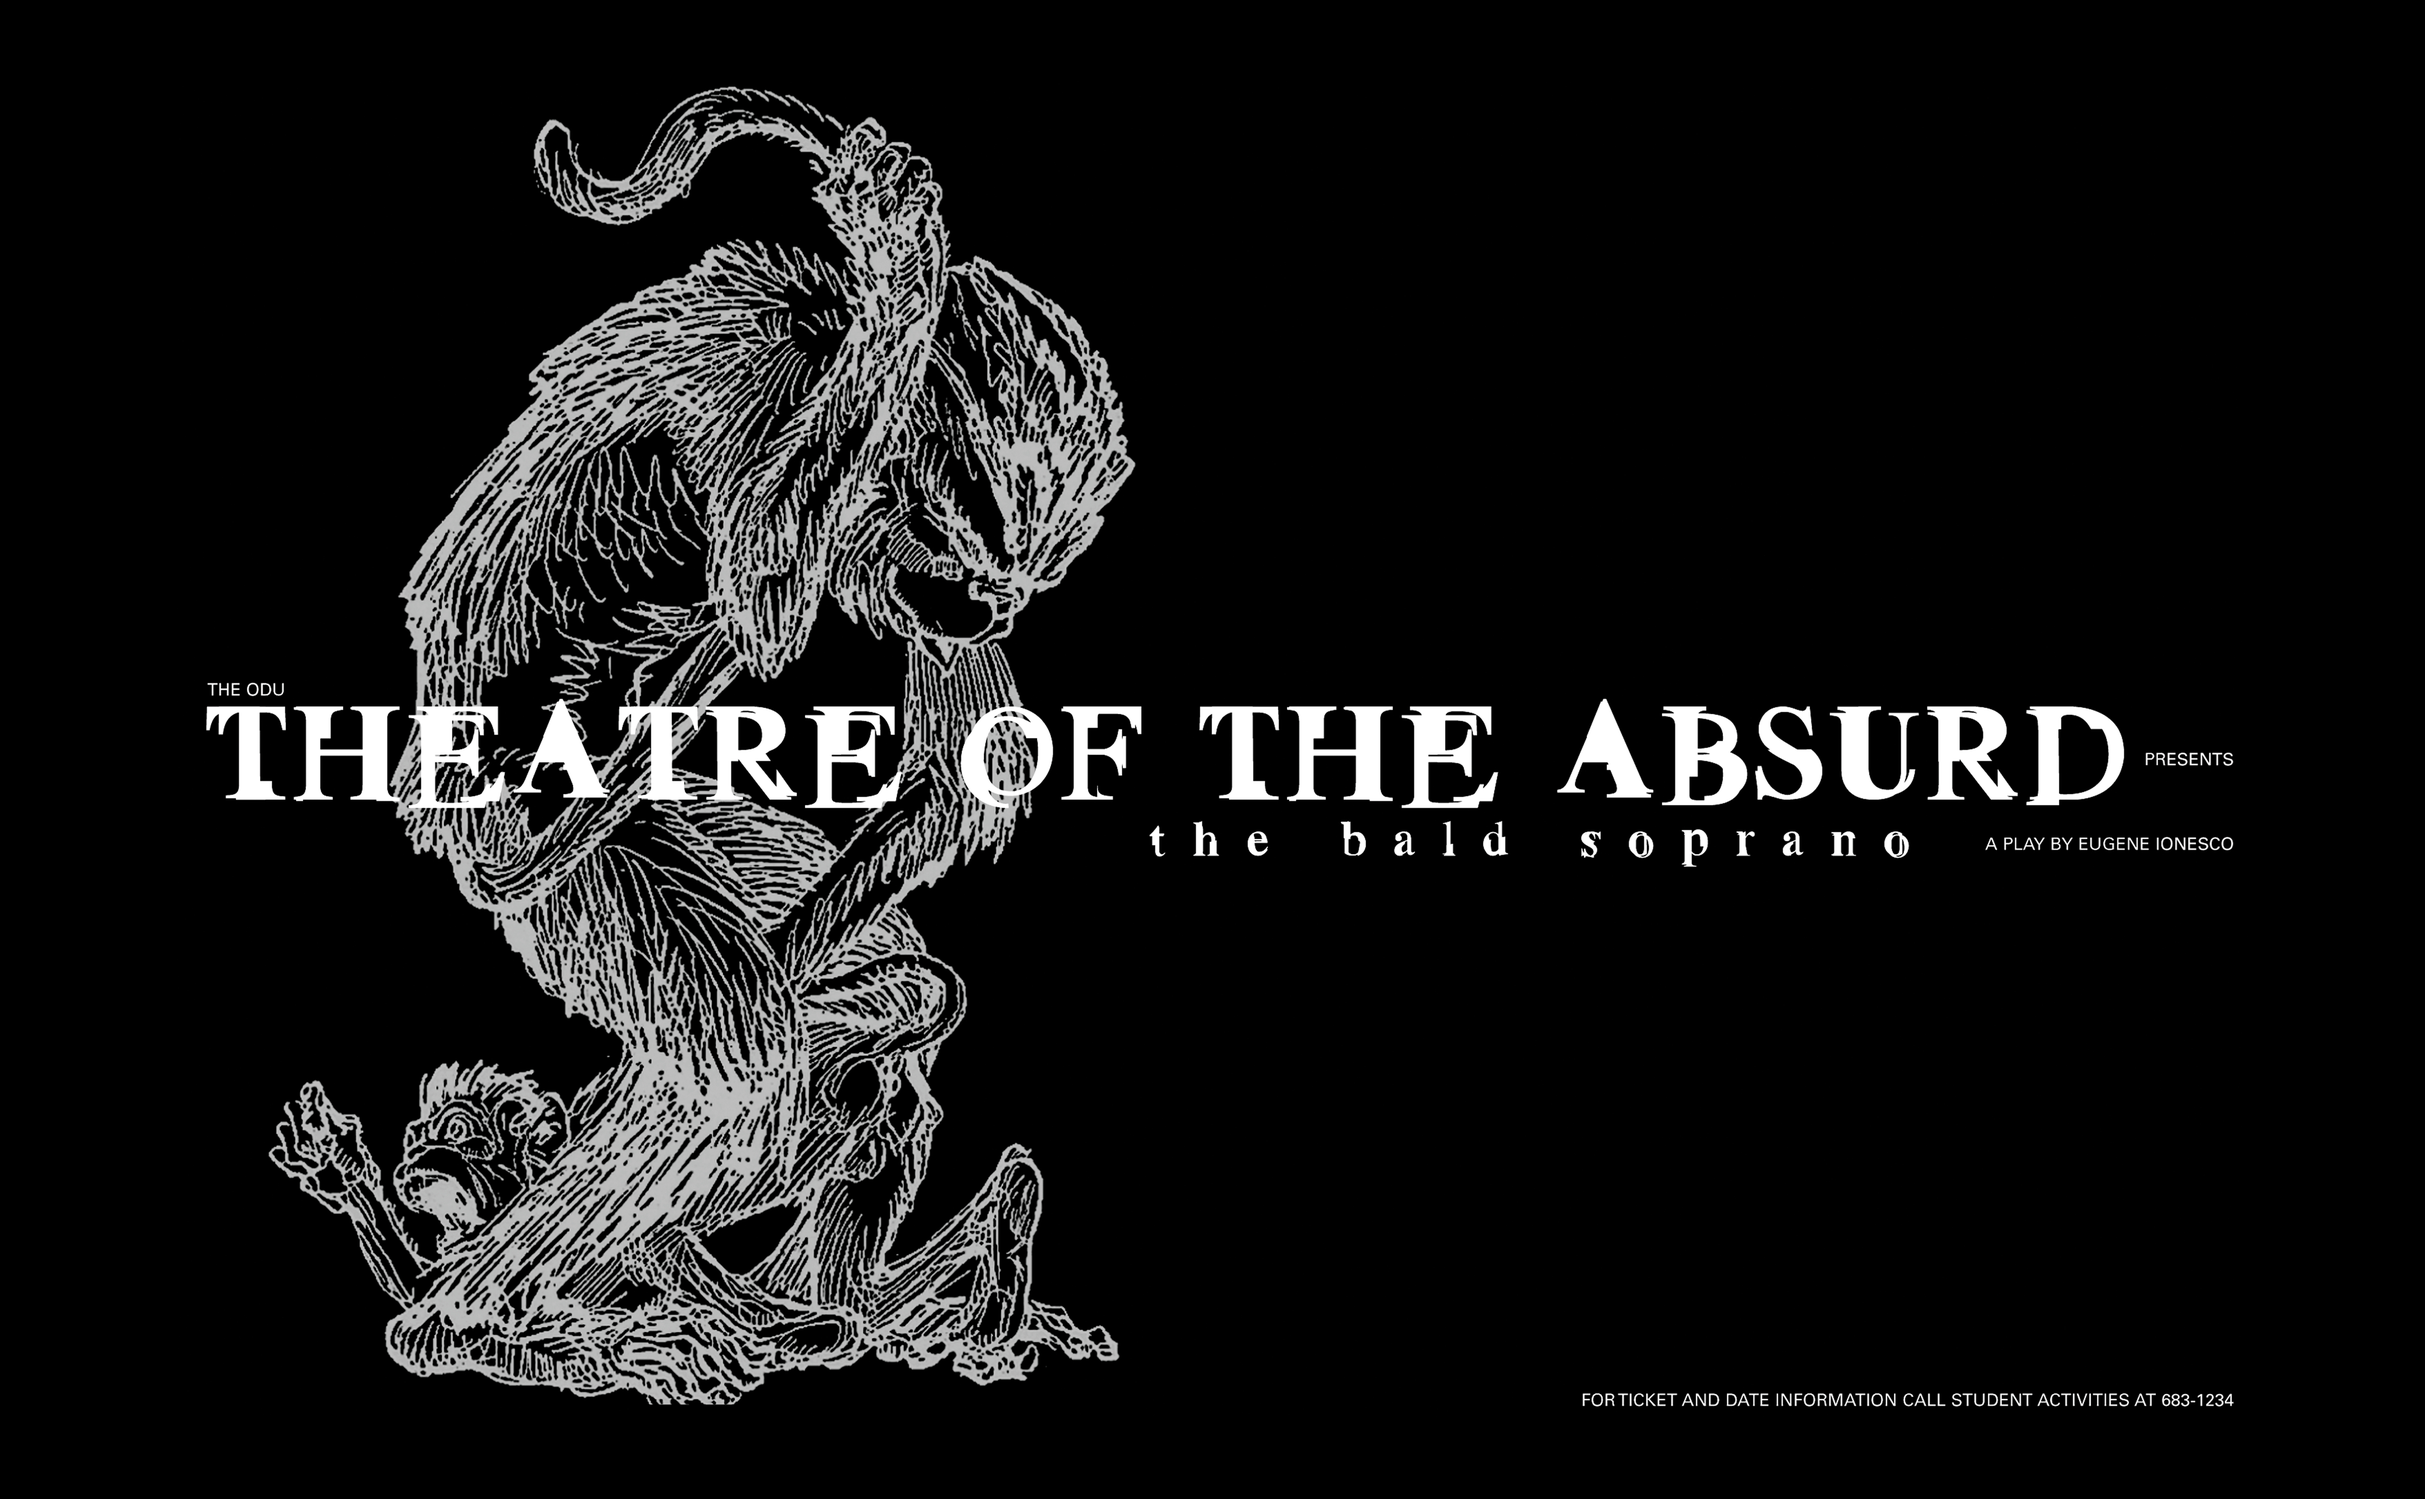
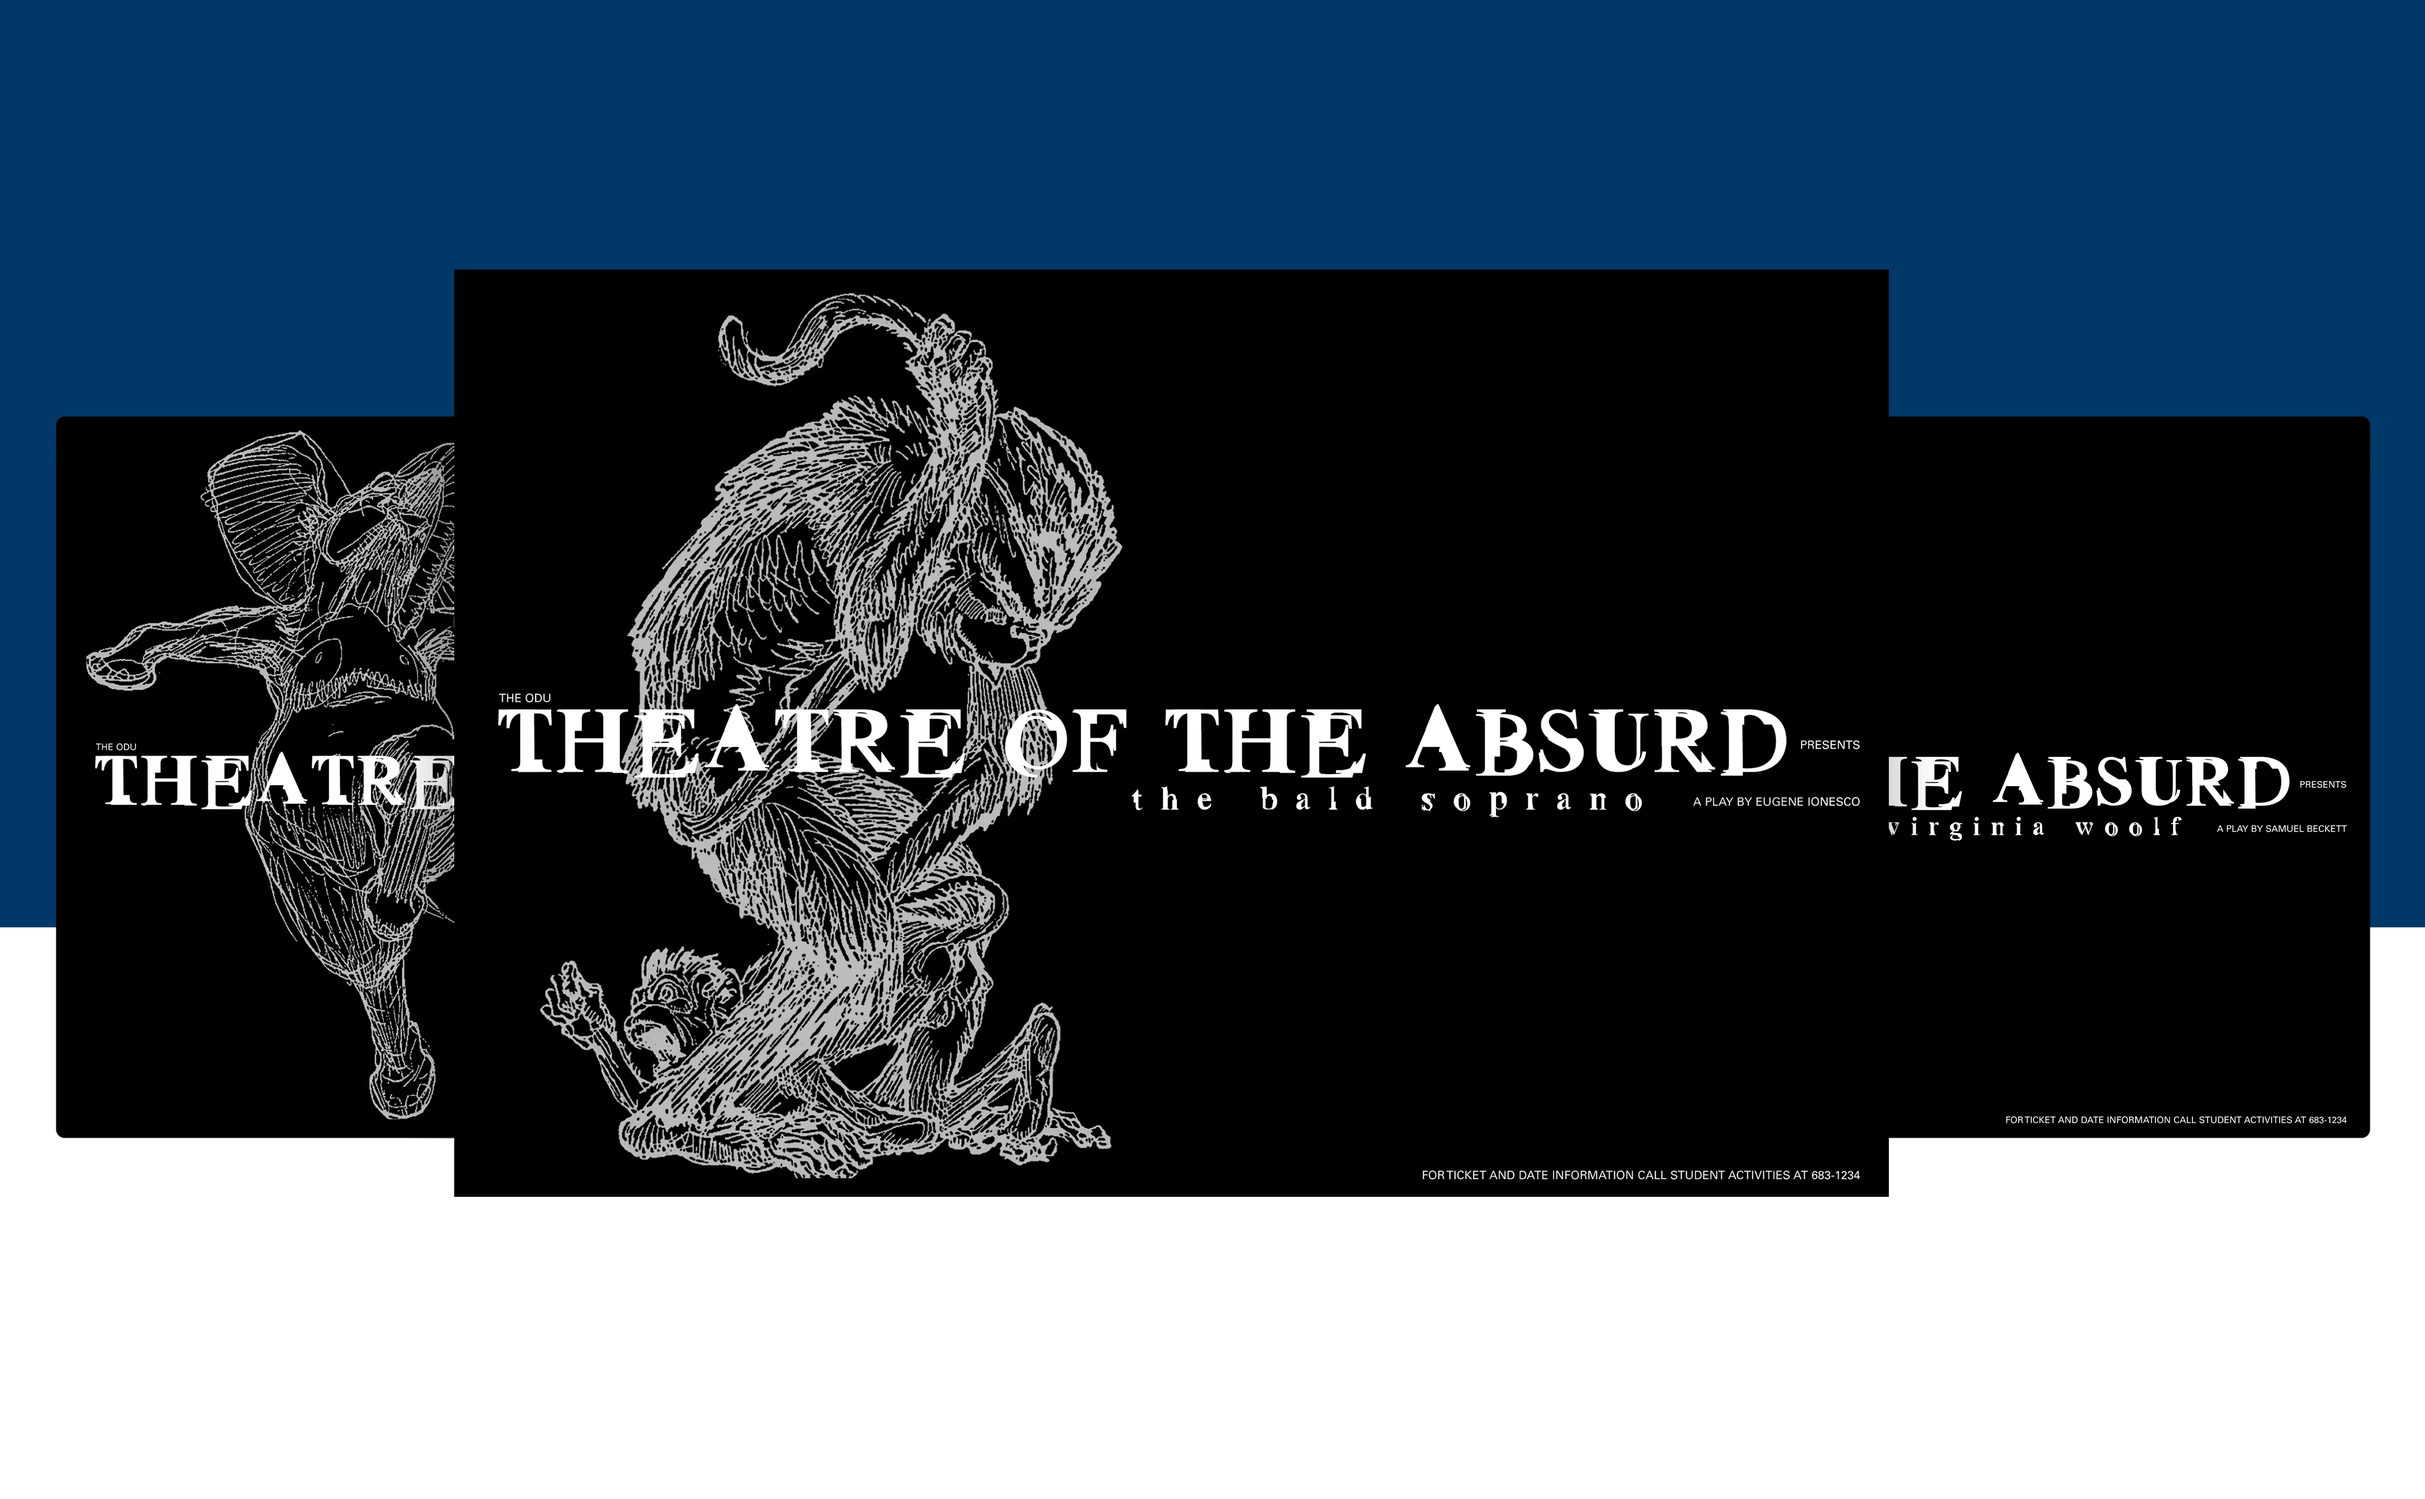
portfolio updates

diff --git a/css/golden-ratio.css b/css/golden-ratio.css
@@ -18,12 +18,23 @@
 	background-image: none;
 }
 
-#what {
-	position:absolute;
-	top: 1.61803em; 
-	margin-left: 1.61803em;
+.panel {
+    box-shadow: none;
+}
+.panel-default {
+	border-color: transparent;
+	border:none;
+}
+.panel-heading {
+	padding: 0;
+	border-bottom: none;
+	border-top-left-radius: 0;
+	border-top-right-radius: 0;
 }
 
+.panel-group .panel-heading + .panel-collapse > .list-group, .panel-group .panel-heading + .panel-collapse > .panel-body {
+	border-top: none;
+}
 
 /* -- hypenation and word breaks for longer words --*/
 

diff --git a/index.php b/index.php
@@ -200,43 +200,48 @@ function() {
 </section>
 <section class="container">
 	<!-- trx - fitness anywhere -->
-    <!-- drew brees training application -->
-	<div class="row">
-  		<div class="col-md-12">
-    		<img src="images/trx-drew-brees-app.jpg" class="img-responsive">
-  			<h2 id="what"></h2>
-  		</div>
-	</div>
-    <!-- military fitness -->
-	<div class="row">
-  		<div class="col-md-12">
-    		<img src="images/trx-military-fitness.jpg" class="img-responsive">
-  			<h2 id="what"></h2>
-  		</div>
-	</div>
-    <!-- motocross, tennis, and multisport -->
-	<div class="row">
-  		<div class="col-md-12">
-    		<img src="images/trx-motocross-tennis-multisport.jpg" class="img-responsive">
-  			<h2 id="what"></h2>
-  		</div>
-	</div>
-    <!-- group suspension training resource center -->
-	<div class="row">
-  		<div class="col-md-12">
-    		<img src="images/trx-group-training-resource.jpg" class="img-responsive">
-  			<h2 id="what"></h2>
-  		</div>
-	</div>
-
-  <!-- trx - suspension training for soccer, basketball, and running -->
-
-	<div class="row">
-  		<div class="col-md-12">
-    		<img src="images/trx-soccer-basketball-run.jpg" class="img-responsive">
-  			<h2 id="what"></h2>
-  		</div>
-	</div>
+    
+    <section class="container">
+<div class="panel-group" id="accordion" role="tablist" aria-multiselectable="true">
+  <div class="panel panel-default">
+    <div class="panel-heading" role="tab" id="headingOne">
+      <h4 class="panel-title">
+        <a role="button" data-toggle="collapse" data-parent="#accordion" href="#collapseOne" aria-expanded="true" aria-controls="collapseOne">
+          <img src="images/trx-drew-brees-app.jpg" class="img-responsive">
+        </a>
+      </h4>
+    </div>
+    <div id="collapseOne" class="panel-collapse collapse in" role="tabpanel" aria-labelledby="headingOne">
+    <div class="panel-body">
+    	<div class="col-md-9">
+       	<img src="images/trx-motocross-tennis-multisport.jpg" class="img-responsive">
+        <img src="images/trx-soccer-basketball-run.jpg" class="img-responsive">
+        </div>
+        <div class="col-md-3">
+        <h3>TRX Suspension Training App &amp; Webpages</h3>
+   		Original concepts for this campaign were created, and executed by outside consultants. Later artwork and ad creation, would be carried out by the in-house design team. These ads ran, primarily in Golf and other mmagazines with similar target audiences.
+        </div>
+    </div>
+    <div class="panel-body">
+    	<div class="col-md-9">
+        <img src="images/trx-military-fitness.jpg" class="img-responsive">
+        </div>
+        <div class="col-md-3">
+        <h3>The Face of the TRX Force Kit</h3>
+        Original concepts for this campaign were created, and executed by outside consultants. Later artwork and ad creation, would be carried out by the in-house design team. These ads ran, primarily in Golf and other magazines with similar target audiences.
+        </div>
+    </div>
+    <div class="panel-body">
+      	<div class="col-md-9">
+        <img src="images/trx-group-training-resource.jpg" class="img-responsive">
+        </div>
+        <div class="col-md-3">
+        <h3>Group Training Resource Center</h3>
+        Original concepts for this campaign were created, and executed by outside consultants. Later artwork and ad creation, would be carried out by the in-house design team. These ads ran, primarily in Golf and other magazines with similar target audiences.
+        </div>
+    </div>
+  </div>
+</div>
 </section>
 
 <section class="container">
@@ -322,6 +327,25 @@ function() {
   		</div>
 	</div>
 </section>
+<section class="container">
+<div class="panel-group" id="accordion" role="tablist" aria-multiselectable="true">
+  <div class="panel panel-default">
+    <div class="panel-heading" role="tab" id="headingOne">
+      <h4 class="panel-title">
+        <a role="button" data-toggle="collapse" data-parent="#accordion" href="#collapseOne" aria-expanded="true" aria-controls="collapseOne">
+          <img src="images/cbs-mktw-shark.jpg" class="img-responsive">
+        </a>
+      </h4>
+    </div>
+    <div id="collapseOne" class="panel-collapse collapse in" role="tabpanel" aria-labelledby="headingOne">
+      <div class="panel-body">
+      <h3>CBS MarketWatch Print Ad</h3>
+      Original concepts for this campaign were created, and executed by outside consultants. Later artwork and ad creation, would be carried out by the in-house design team. These ads ran, primarily in Golf and other magazines with similar target audiences.      </div>
+    </div>
+  </div>
+</div>
+</section>
+
 
 <!-- cbs marketwatch / behind the numbers -->
 
@@ -334,29 +358,69 @@ function() {
 	</div>
 </section>
 
-
-<!-- oodu / virginia air and space -->
-
 <section class="container">
-	<div class="row">
-  		<div class="col-md-12">
-    		<img src="images/virginia-air-and-space.jpg" class="img-responsive">
-  			<h2 id="what"></h2>
+	<!-- odu / theatre of the absurd -->
+   	<div id="odu-air-space" class="carousel slide" data-ride="carousel">
+  	<!-- Indicators -->
+  		<ol class="carousel-indicators">
+    		<li data-target="#odu-air-space" data-slide-to="0" class="active"></li>
+    		<li data-target="#odu-air-space" data-slide-to="1"></li>
+    		<li data-target="#odu-air-space" data-slide-to="2"></li>
+  		</ol>
+  	<!-- Wrapper for slides -->
+  		<div class="carousel-inner" role="listbox">
+    		<div class="item active">
+      		<img src="images/virginia-air-and-space.jpg" alt="...">
+    		</div>
+    		<div class="item">
+      			<img class="col-md-9" src="images/virginia-air-and-space-fighters.jpg" alt="...">
+                <span class="col-md-3"><h3>Virginia Air &amp; Space&nbsp;Center Educational&nbsp;Posters</h3>
+                <p>Attik Designs heavily influenced the work created when the Virginia Air and Space Center asked me to create some cool educational posters, that kids would want to pin up in their rooms. The posters had to live next to supermodels, cars, magazine pullouts and rock stars. The strong imagery of the Space Shuttle launch and jets flying straight on center were enhanced with illustrations and interpretations of aerodynamic patterns.</p></span>
+            
+    		</div>
   		</div>
+  	<!-- Controls -->
+  		<a class="left carousel-control" href="#odu-air-space" role="button" data-slide="prev">
+    		<span class="glyphicon glyphicon-chevron-left" aria-hidden="true"></span>
+    		<span class="sr-only">Previous</span>
+  		</a>
+  		<a class="right carousel-control" href="#odu-air-space" role="button" data-slide="next">
+    		<span class="glyphicon glyphicon-chevron-right" aria-hidden="true"></span>
+    		<span class="sr-only">Next</span>
+  		</a>
 	</div>
 </section>
-
-<!-- odu / theatre of the absurd -->
-
 <section class="container">
-	<div class="row">
-  		<div class="col-md-12">
-    		<img src="images/theatre-of-the-absurd-bald-soprano.jpg" class="img-responsive">
+	<!-- odu / theatre of the absurd -->
+   	<div id="odu-theatre-of-the-absurd" class="carousel slide" data-ride="carousel">
+  	<!-- Indicators -->
+  		<ol class="carousel-indicators">
+    		<li data-target="#odu-theatre-of-the-absurd" data-slide-to="0" class="active"></li>
+    		<li data-target="#odu-theatre-of-the-absurd" data-slide-to="1"></li>
+    		<li data-target="#odu-theatre-of-the-absurd" data-slide-to="2"></li>
+  		</ol>
+  	<!-- Wrapper for slides -->
+  		<div class="carousel-inner" role="listbox">
+    		<div class="item active">
+      		<img src="images/theatre-of-the-absurd-bald-soprano.jpg" alt="...">
+    		</div>
+    		<div class="item">
+      			<img class="col-md-9" src="images/theatre-of-the-absurd-waiting-for-godot.jpg" alt="...">
+                <span class="col-md-3"><h3>Theatre of the Absurd&nbsp;Posters</h3><p>While working on "the absurd posters", discussions about the college student audience, lifestyle and sexuality where rampant. The cyclical, repetitive and often meaningless activities of the undergrad defined the monkey spanking the monkey image. The monkey image was the first of a series of illustrations created specifically for the posters. Later ideas of scale, cliche and dated icons surfaced and defined the look and feel of the posters.</p></span>
+            
+    		</div>
   		</div>
+  	<!-- Controls -->
+  		<a class="left carousel-control" href="#odu-theatre-of-the-absurd" role="button" data-slide="prev">
+    		<span class="glyphicon glyphicon-chevron-left" aria-hidden="true"></span>
+    		<span class="sr-only">Previous</span>
+  		</a>
+  		<a class="right carousel-control" href="#odu-theatre-of-the-absurd" role="button" data-slide="next">
+    		<span class="glyphicon glyphicon-chevron-right" aria-hidden="true"></span>
+    		<span class="sr-only">Next</span>
+  		</a>
 	</div>
 </section>
-
-
 <section class="container">
 	<div class="row text-muted">
   		<div class="col-md-3">
@@ -455,5 +519,7 @@ function() {
 <!-- Include all compiled plugins (below), or include individual files as needed --> 
 <!-- script src="js/bootstrap.min.js"></script-->
 <script src="bootstrap/js/carousel.js"></script>
+<script src="bootstrap/js/transition.js"></script>
+<script src="bootstrap/js/collapse.js"></script>
 </body>
 </html>
